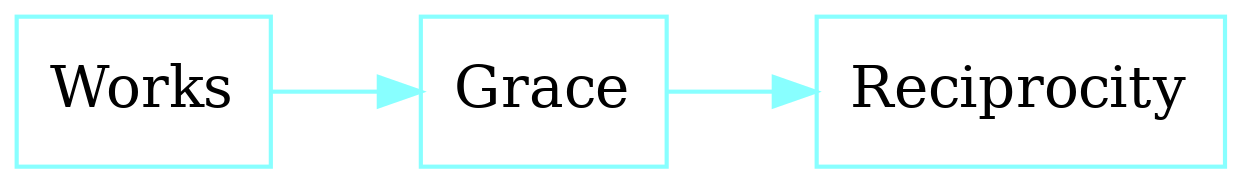
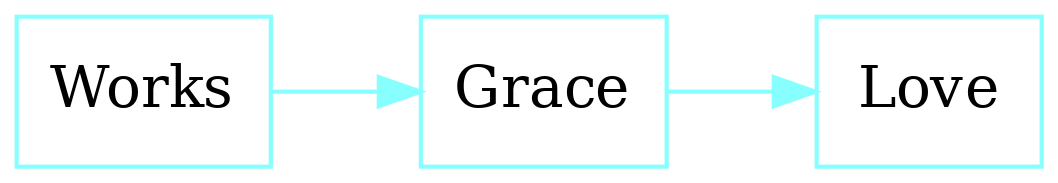
reexp

Changed region(s): [[0.0, 0.0546, 0.9981, 0.929], [0.8733, 0.3552, 0.9045, 0.3825]]

diff --git a/ABSA.html b/ABSA.html
@@ -812,7 +812,7 @@
     The Second Testament, a covenent of grace made by Jesus
    </li>
    <li>
-    The Third Testament, a covenent of reciprocity made by Julian
+    The Third Testament, a covenent of love made by Julian
    </li>
   </ul>
   Simplified

diff --git a/README.md b/README.md
@@ -241,7 +241,7 @@ The Three Stages
 <sup>0</sup> Following covenent theology, our lineage consists of:
 - The First Testament, a covenent of works made with Adam
 - The Second Testament, a covenent of grace made by Jesus
-- The Third Testament, a covenent of reciprocity made by Julian
+- The Third Testament, a covenent of love made by Julian
 
 
 
